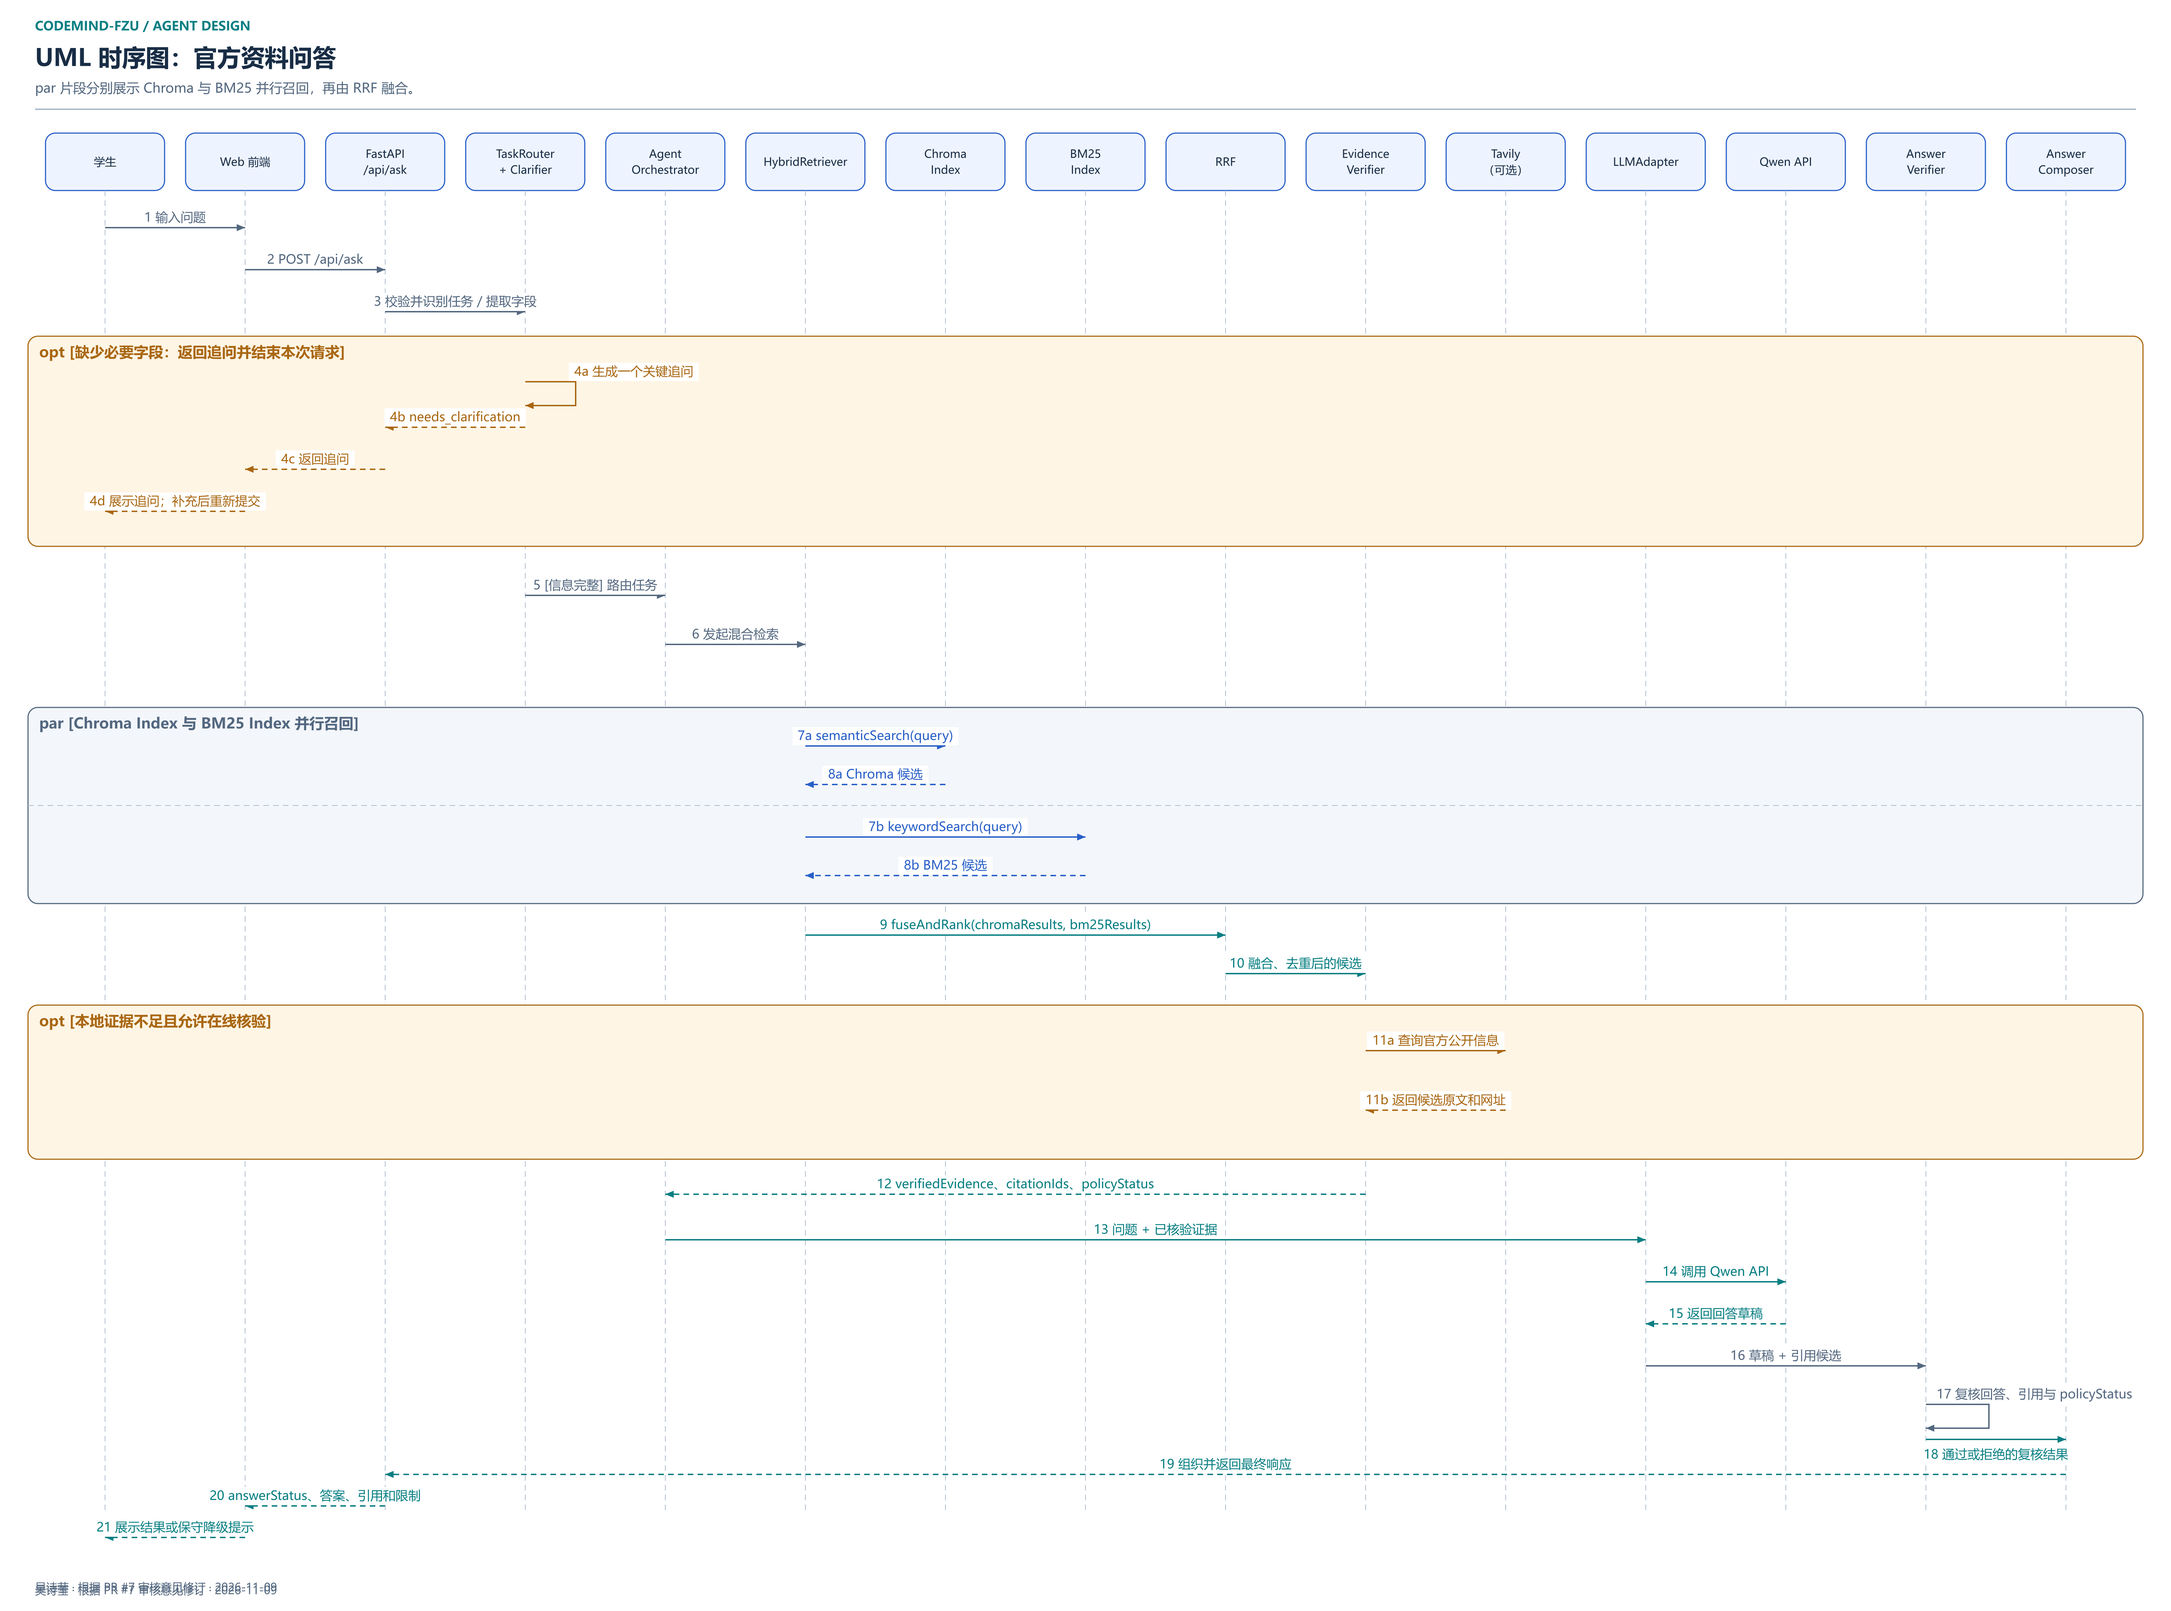
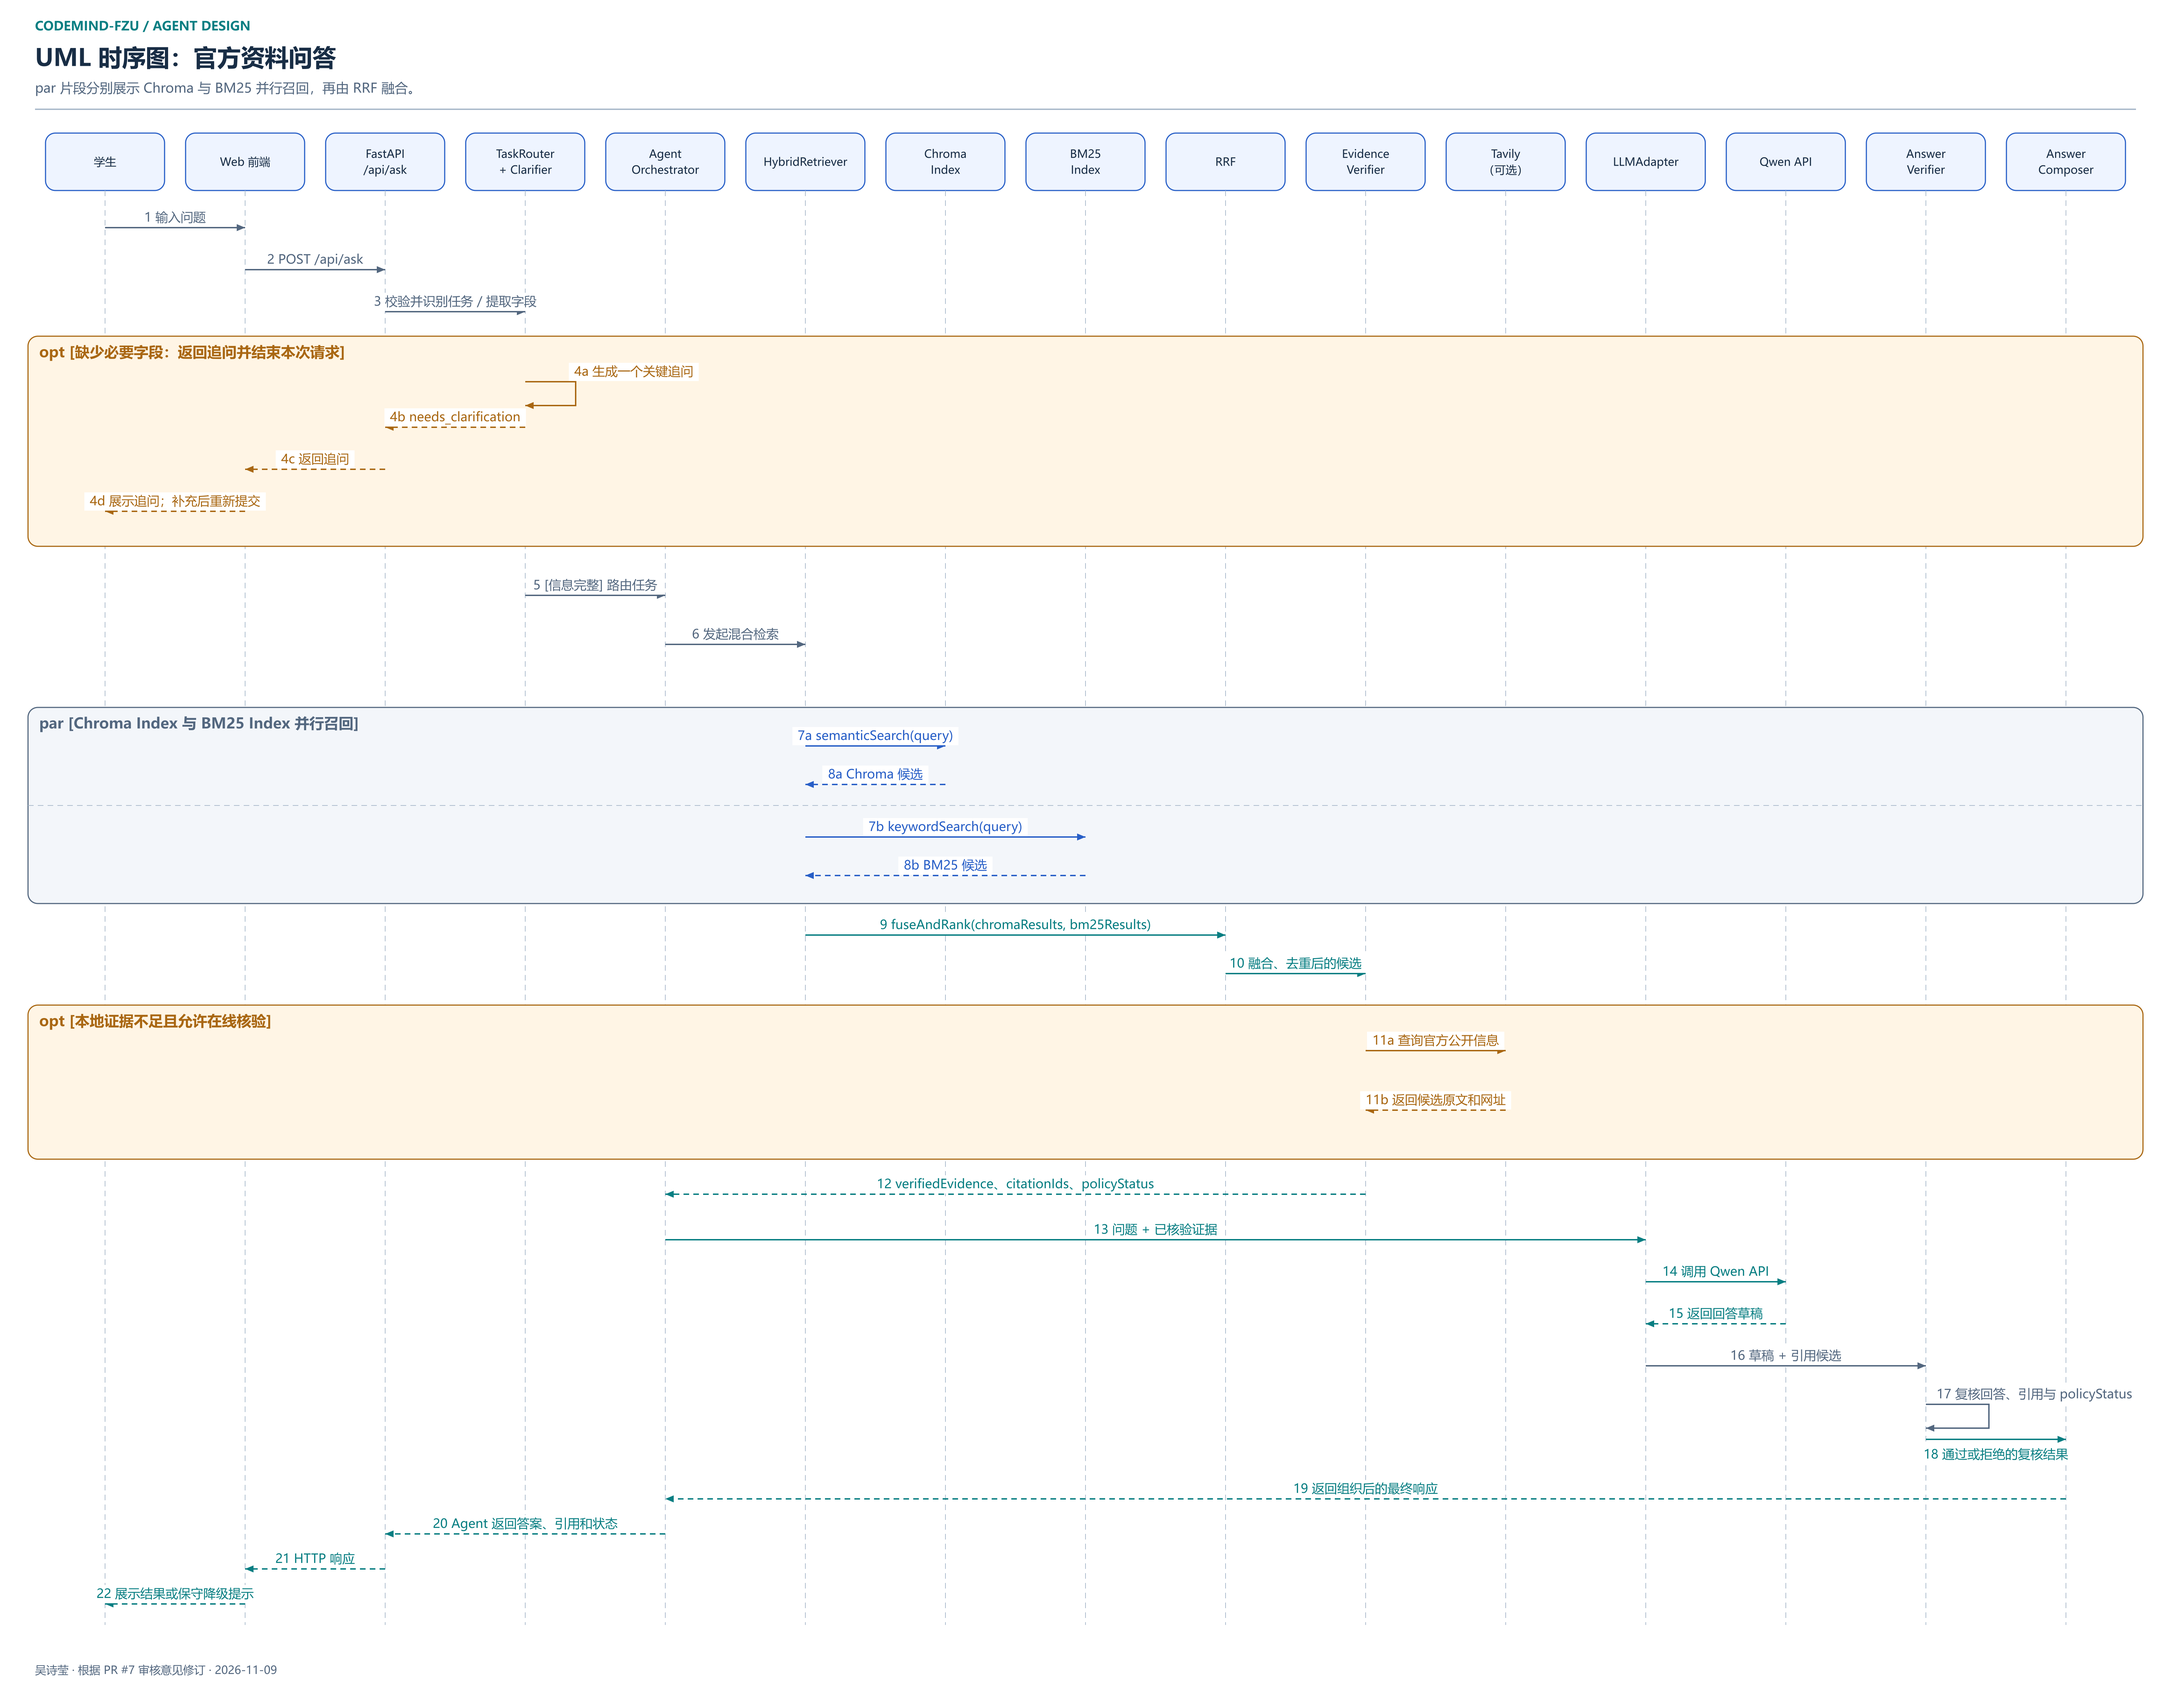
docs: refine Agent response path and component direction

diff --git a/docs/assignment-02/system-design/diagrams/agent-flow/成果索引_吴诗莹_v1.md b/docs/assignment-02/system-design/diagrams/agent-flow/成果索引_吴诗莹_v1.md
@@ -16,3 +16,5 @@
 三项正式成果已对齐 [`../architecture/技术架构设计说明_赵紫龙_v1.md`](../architecture/技术架构设计说明_赵紫龙_v1.md)：单体 FastAPI、Chroma + BM25 + RRF、生成前 `EvidenceVerifier`、`LLMAdapter / Qwen API`、生成后 `AnswerVerifier` 以及 `AnswerComposer` 的职责和调用顺序保持一致。
 
 v1.1 根据 PR #7 审核意见进一步明确：`LLMAdapter` 位于 FastAPI 内部、Qwen API 是外部模型服务；UML 时序图分别展示 Chroma 与 BM25 两路并行召回，并在两路返回后执行 RRF 融合；同时增加学生参与者左侧画布边距。
+
+后续审核修订明确最终返回链为 `AnswerComposer → AgentOrchestrator → FastAPI /api/ask → Web 前端`，并将 `AnswerVerifier → AnswerComposer` 固定为单向调用。
